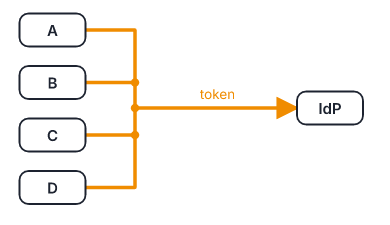
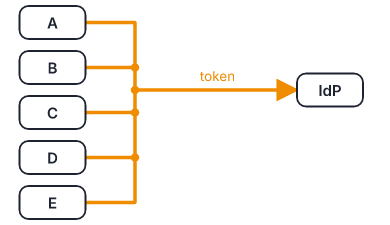
Algorithm document: parallel links that do not overlap, two links pulled apart stepping at one point, gathering shown from five links (the threshold, gather N)

Changed region(s): [[0.0308, 0.0, 0.9538, 0.9644], [0.7692, 0.3111, 0.9231, 0.3422], [0.0615, 0.9644, 0.2154, 0.9956]]

diff --git a/tools/algorithm-sketches.js b/tools/algorithm-sketches.js
@@ -81,11 +81,11 @@ const SKETCHES = {
     { nodes: [['A', 40, 22], ['B', 220, 128]], links: [[[[40, 33], [40, 75], [220, 75], [220, 117]], O]] },
   ],
   mergeHubs: [
-    { nodes: [['A', 35, 20], ['B', 35, 55], ['C', 35, 90], ['D', 35, 125], ['IdP', 220, 75]],
-      links: [[[[57, 20], [150, 20], [150, 66], [198, 66]], { label: { text: 'token', at: [110, 15] } }], [[[57, 55], [140, 55], [140, 72], [198, 72]], { label: { text: 'token', at: [100, 50] } }], [[[57, 90], [140, 90], [140, 78], [198, 78]], { label: { text: 'token', at: [100, 102] } }], [[[57, 125], [150, 125], [150, 84], [198, 84]], { label: { text: 'token', at: [110, 137] } }]] },
-    { nodes: [['A', 35, 20], ['B', 35, 55], ['C', 35, 90], ['D', 35, 125], ['IdP', 220, 72]],
-      links: [[[[57, 20], [90, 20], [90, 125], [57, 125]], { ...O, noArrow: true }], [[[57, 55], [90, 55]], { ...O, noArrow: true }], [[[57, 90], [90, 90]], { ...O, noArrow: true }], [[[90, 72], [198, 72]], { ...O, label: { text: 'token', at: [145, 66], orange: true } }]],
-      dots: [[90, 55, 1], [90, 90, 1], [90, 72, 1]] },
+    { nodes: [['A', 35, 15], ['B', 35, 45], ['C', 35, 75], ['D', 35, 105], ['E', 35, 135], ['IdP', 220, 75]],
+      links: [[[[57, 15], [150, 15], [150, 67], [198, 67]], { label: { text: 'token', at: [110, 10] } }], [[[57, 45], [140, 45], [140, 71], [198, 71]], { label: { text: 'token', at: [100, 40] } }], [[[57, 75], [198, 75]], { label: { text: 'token', at: [100, 70] } }], [[[57, 105], [140, 105], [140, 79], [198, 79]], { label: { text: 'token', at: [100, 117] } }], [[[57, 135], [150, 135], [150, 83], [198, 83]], { label: { text: 'token', at: [110, 147] } }]] },
+    { nodes: [['A', 35, 15], ['B', 35, 45], ['C', 35, 75], ['D', 35, 105], ['E', 35, 135], ['IdP', 220, 60]],
+      links: [[[[57, 15], [90, 15], [90, 135], [57, 135]], { ...O, noArrow: true }], [[[57, 45], [90, 45]], { ...O, noArrow: true }], [[[57, 75], [90, 75]], { ...O, noArrow: true }], [[[57, 105], [90, 105]], { ...O, noArrow: true }], [[[90, 60], [198, 60]], { ...O, label: { text: 'token', at: [145, 54], orange: true } }]],
+      dots: [[90, 45, 1], [90, 75, 1], [90, 105, 1], [90, 60, 1]] },
   ],
   rerouteBlocked: [
     { nodes: [['A', 40, 75], ['X', 130, 75, 50, 40], ['B', 220, 75]], links: [[[[62, 75], [198, 75]]]] },
@@ -104,8 +104,8 @@ const SKETCHES = {
     { nodes: [['A', 50, 25], ['B', 210, 25], ['C', 130, 125, 60]], links: [[[[50, 36], [50, 80], [116, 80], [116, 114]], O], [[[210, 36], [210, 80], [144, 80], [144, 114]], O]] },
   ],
   separateParallels: [
-    { nodes: [['A', 30, 40], ['B', 30, 110], ['C', 230, 40], ['D', 230, 110]], links: [[[[52, 40], [128, 40], [128, 110], [208, 110]]], [[[52, 110], [132, 110], [132, 40], [208, 40]]]] },
-    { nodes: [['A', 30, 40], ['B', 30, 110], ['C', 230, 40], ['D', 230, 110]], links: [[[[52, 40], [120, 40], [120, 110], [208, 110]], O], [[[52, 110], [140, 110], [140, 40], [208, 40]], O]] },
+    { nodes: [['A', 30, 30], ['B', 30, 62], ['C', 230, 90], ['D', 230, 120]], links: [[[[52, 30], [132, 30], [132, 90], [208, 90]]], [[[52, 62], [128, 62], [128, 120], [208, 120]]]], texts: [['4px apart: they read as one', 130, 145]] },
+    { nodes: [['A', 30, 30], ['B', 30, 62], ['C', 230, 90], ['D', 230, 120]], links: [[[[52, 30], [144, 30], [144, 90], [208, 90]], O], [[[52, 62], [120, 62], [120, 120], [208, 120]], O]] },
   ],
   uncrossSteps: [
     { nodes: [['A', 40, 85], ['B', 40, 125], ['D', 220, 25], ['C', 220, 60]], links: [[[[62, 85], [150, 85], [150, 25], [198, 25]]], [[[62, 125], [110, 125], [110, 60], [198, 60]]]], texts: [['they cross twice', 130, 145]] },
@@ -113,7 +113,7 @@ const SKETCHES = {
   ],
   resolveOverlaps: [
     { nodes: [['A', 40, 75], ['B', 220, 50], ['C', 220, 100]], links: [[[[62, 75], [140, 75], [140, 50], [198, 50]]], [[[62, 75], [140, 75], [140, 100], [198, 100]]]], texts: [['two links, one line', 100, 95]] },
-    { nodes: [['A', 40, 75], ['B', 220, 50], ['C', 220, 100]], links: [[[[62, 69], [130, 69], [130, 50], [198, 50]], O], [[[62, 81], [150, 81], [150, 100], [198, 100]], O]] },
+    { nodes: [['A', 40, 75], ['B', 220, 50], ['C', 220, 100]], links: [[[[62, 69], [140, 69], [140, 50], [198, 50]], O], [[[62, 81], [140, 81], [140, 100], [198, 100]], O]] },
   ],
   slideToStraighten: [
     { nodes: [['A', 50, 25], ['B', 130, 25], ['C', 210, 25], ['N', 138, 120]], links: [[[[50, 36], [50, 85], [130, 85], [130, 109]]], [[[130, 36], [130, 70], [138, 70], [138, 109]]], [[[210, 36], [210, 85], [146, 85], [146, 109]]]] },

diff --git a/tools/build-algorithm.js b/tools/build-algorithm.js
@@ -19,13 +19,13 @@ const OUT = path.join(root, 'docs/algorithm.md');
 // [step, title, one line]
 const STEPS = [
   ['centreParents', 'Parents over their children', 'With `tree`, each parent moves over the middle of its children.'],
-  ['placeOnConcentrators', 'Junctions inside zones', 'Many alike links into a zone meet one line inside it; each runs straight across to it.'],
+  ['placeOnConcentrators', 'Junctions inside zones', 'Five or more alike links from one zone meet one line inside it; each runs straight across to it.'],
   ['splitDecisions', 'Decisions part at the box', "A question's yes and no leave from different sides."],
   ['spanSides', 'Side zones line up', 'A side zone stretches along the zones it serves; its nodes move level with their links.'],
   ['clearFrames', 'Off the borders', 'A link running along a zone border moves off it.'],
   ['alignJogs', 'Steps at one height', 'Links into one node take their step at the same height.'],
   ['simplifySnakes', 'No snakes', 'A link that zigzags more than it needs takes the shorter route.'],
-  ['mergeHubs', 'Gathered links', 'Alike links into one node become one bus, the label written once.'],
+  ['mergeHubs', 'Gathered links', 'Five or more alike links into one node (`gather N` changes the number) become one bus, the label written once.'],
   ['rerouteBlocked', 'Around, never through', 'A link through or along a node, or on top of another link, is routed again on a grid.'],
   ['straightenSmallJogs', 'Small steps removed', 'A step of a few pixels is not worth a bend: the end slides and the link is straight.'],
   ['reorderEnds', 'Ends that do not cross', 'Links leaving one side of a node take the order that crosses least.'],

diff --git a/docs/algorithm.md b/docs/algorithm.md
@@ -138,7 +138,7 @@ With `tree`, each parent moves over the middle of its children.
 <!-- step: placeOnConcentrators -->
 ### 2. Junctions inside zones
 
-Many alike links into a zone meet one line inside it; each runs straight across to it.
+Five or more alike links from one zone meet one line inside it; each runs straight across to it.
 
 <table>
 <tr><th>Before</th><th>After</th></tr>
@@ -300,7 +300,7 @@ A link that zigzags more than it needs takes the shorter route.
 <!-- step: mergeHubs -->
 ### 8. Gathered links
 
-Alike links into one node become one bus, the label written once.
+Five or more alike links into one node (`gather N` changes the number) become one bus, the label written once.
 
 <table>
 <tr><th>Before</th><th>After</th></tr>
